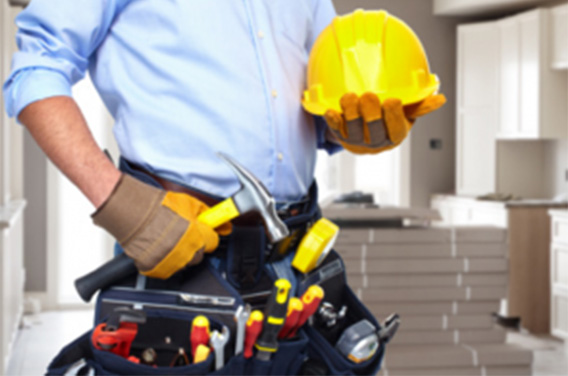
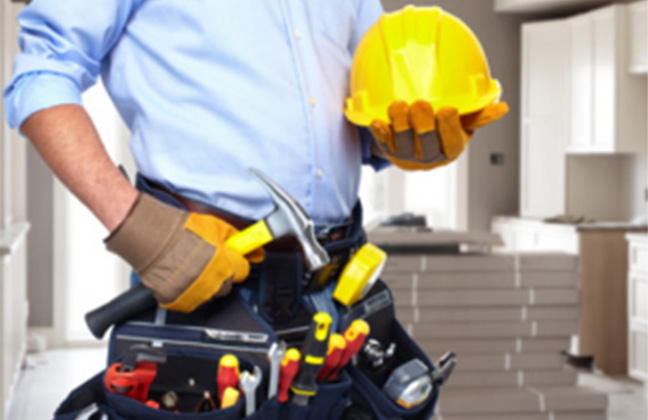
tercera-pre-entrega sin seo

diff --git a/css/style.css b/css/style.css
@@ -22,7 +22,7 @@ body {
 header {
   grid-area: header;
   background: linear-gradient(#0a5312, rgba(6, 95, 25, 0.24));
-  width: 100%;
+  width: 100vw;
   height: 4rem;
   font-family: 'K2D', sans-serif;
   text-indent: 0.625rem;
@@ -115,12 +115,11 @@ main {
     grid-area: articulo; }
 
 .menuArticulo {
-  width: 100%;
+  width: 100vw;
   background-color: rgba(128, 128, 128, 0.575);
   height: 25rem;
   display: flex;
-  margin-right: 6.25rem;
-  margin-bottom: 3.125rem; }
+  margin-top: 2rem; }
   .menuArticulo p {
     margin: auto auto auto .625rem;
     color: black;
@@ -133,7 +132,7 @@ main {
     align-items: center;
     gap: none; }
     .menuArticulo div img {
-      margin-right: 5rem;
+      margin-right: 3rem;
       width: 18.75rem;
       height: 18.75rem;
       border-radius: 50%; }
@@ -223,7 +222,9 @@ main {
 
 #carouselExampleAutoplaying div {
   max-width: 100%;
-  height: auto; }
+  height: auto;
+  padding: 2%;
+  bottom: 2rem; }
 
 .articulo {
   display: flex;
@@ -259,6 +260,7 @@ main {
 
 footer {
   grid-area: footer;
+  width: 100vw;
   background: linear-gradient(rgba(182, 218, 173, 0.473), #0a5312);
   height: 6.25rem;
   display: flex;

diff --git a/scss/layout/_main-index.scss b/scss/layout/_main-index.scss
@@ -55,12 +55,11 @@ main {
         }
 
 .menuArticulo{
-        width: 100%;
+        width: 100vw;
         background-color: rgba(128, 128, 128, 0.575);
         height: 25rem;
         display: flex;
-        margin-right: 6.25rem;
-        margin-bottom: 3.125rem;
+        margin-top: 2rem;
         p{
             margin: auto auto auto .625rem;
             color: $color-fuentes2;
@@ -70,7 +69,7 @@ main {
         div{
             @include flex(row, end, center, none);
             img{
-                margin-right: 5rem;
+                margin-right: 3rem;
                 width: 18.75rem;
                 height: 18.75rem;
                 border-radius: 50%;

diff --git a/index.html b/index.html
@@ -36,7 +36,7 @@
             </section>
             <!-- introduciendo bootstrap, se poisciono con el gridmain base, se le dio margen y se achicaron los botones laterales-->
             <div id="carouselExampleAutoplaying"
-                class="carousel slide articulo d-sm-flex justify-content-start mt-5 ms-2 " data-bs-ride="carousel">
+            class="carousel slide articulo d-sm-flex justify-content-start mt-5 ms-2 " data-bs-ride="carousel">
                 <div class="carousel-inner d-flex" >
                     <div class="carousel-item active">
                         <img src="./assets/IMG/carrusel.jpg" class="d-block w-100 rounded-4"

diff --git a/scss/components/_bootstrap.scss b/scss/components/_bootstrap.scss
@@ -1,6 +1,8 @@
 #carouselExampleAutoplaying{
-    div{        
-        max-width: 100%;
-        height: auto;
-    }
+        div{
+            max-width: 100%;
+            height: auto;
+            padding: 2%;
+            bottom: 2rem;
+        }
 }

diff --git a/scss/layout/_header.scss b/scss/layout/_header.scss
@@ -1,7 +1,7 @@
 header{
     grid-area: header;
     background: linear-gradient(rgba(10, 83, 18, 1), rgba(6, 95, 25, 0.24));
-    width: 100%;
+    width: 100vw;
     height: 4rem;
     font-family: 'K2D', sans-serif;
     text-indent: 0.625rem;

diff --git a/scss/layout/_body.scss b/scss/layout/_body.scss
@@ -1,6 +1,6 @@
 body {
     background-image: url(../assets/IMG/fondo.png);
-    background-size:cover;
+    background-size: cover;
     background-position: center;
     background-repeat: no-repeat;
     font-family: 'K2D', sans-serif;

diff --git a/scss/layout/_footer.scss b/scss/layout/_footer.scss
@@ -1,5 +1,6 @@
 footer{
     grid-area: footer;
+    width: 100vw;
     background: linear-gradient(rgba(182, 218, 173, 0.473), rgba(10, 83, 18, 1));
     height: 6.25rem;
     display: flex;

diff --git a/scss/Base/_reset.scss b/scss/Base/_reset.scss
@@ -2,5 +2,5 @@
     margin:0;
     padding:0;
     box-sizing: border-box;
-    // border: red solid 0.1px;
+    //border: red solid 0.1px;
 }
